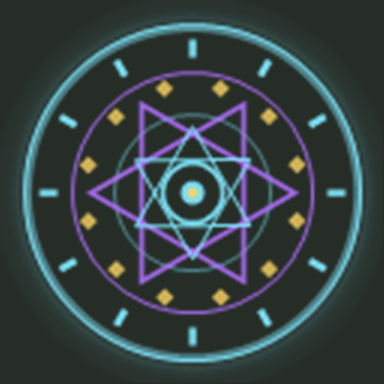
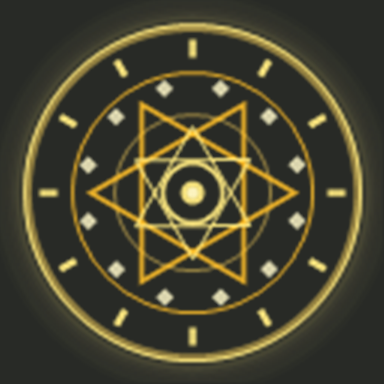
feat(雷球第二轮): 粒子改成球边缘一圈、爆炸改中心爆散、魔法阵纯黄并放大 4 倍
作者：「粒子特效应该是在球的边缘一圈，量很大；球刚触地就直接爆炸就行；魔法阵对于雷法来说
纯黄色就行、大小放大 4 倍；球的边缘多增加一点；爆炸特效还是有点烂，不如当他爆炸的时候
从中心散开一大堆粒子好了」。

- 边缘环：travel_particles 改用 shape=CIRCLE + extent（环半径，格）
  t4 extent 1.6（球半径 1.6 格）/ t5 extent 14.0（球 28 格 -> 半径 14）
  批次与数量：t4 黄150+紫150+弧40；t5 黄220+紫220+黑20+弧60（紫黄五五开、黑约 9%）
- 爆炸：按作者意见去掉 CIRCLE 环 / PILLAR / 尘土，只保留"从中心 SPHERE 爆散一大堆"
  t4 命中 700 + 范围 1000，t5 命中 970 + 范围 1520，速度 2~7，外加 flash 闪光
- 魔法阵：贴图改纯黄（只用一个色相；tools/gen_magic_circle.ps1 重写为纯 ASCII，
  上一版我往里塞了中文注释，PS 5.1 按 ANSI 读成乱码把脚本搞挂了一次）
  半径放大 4 倍：t4 3.2->12.8 格、t5 5.0->20 格；时长 170 / 260 tick
- t5 只留一颗球：extra_launch_count 8->0（顺带避免 9 颗球各喷 200+ 粒子）
- 触地即爆：引擎无 pierce/bounce，撞地形就触发 impact/area_impact，本来就是刚触地就炸

⚠ extent 的单位没实测（包里 0 个 CIRCLE 用例）：若环偏小/偏大，把 extent x16 或 /16
⚠ 装机时游戏正开着 -> 本次**没有装机**（避免又出现"覆盖半个 jar 导致紫黑"），
   构建产物在 build\libs\tnc-1.0.0.jar，退游戏后再装

Changed region(s): [[0.0312, 0.0312, 0.9688, 0.9688], [0.4688, 0.4688, 0.5312, 0.5312]]

diff --git a/src/main/java/com/tnc/tnc/magic/TnSpellMechanics.java b/src/main/java/com/tnc/tnc/magic/TnSpellMechanics.java
@@ -233,9 +233,9 @@ public final class TnSpellMechanics {
         // 传说级 / 神级雷球：脚下留下魔法阵 ✓（作者 2026-09-22 指定）
         // tier 4 = 传说级、tier 5 = 神级（见 Element.tierName）
         if (path.equals("explosive_thunder_orb")) {
-            spawnMagicCircle(player, 3.2D, 140);
+            spawnMagicCircle(player, 12.8D, 170);
         } else if (path.equals("cataclysm_thunder_orb")) {
-            spawnMagicCircle(player, 5.0D, 220);
+            spawnMagicCircle(player, 20.0D, 260);
         }
     }
 

diff --git a/docs/法术专题_交接.md b/docs/法术专题_交接.md
@@ -148,6 +148,8 @@ SELF 型法术在引擎里**没有任何模型/投射物** ✗，所以表现全
 | 爆炸粒子加强 | 全部**向外速度**大幅提高（命中 1.5~4.0、范围 2.0~5.0、CIRCLE 环 2.5~6.0）＋ 新增 `minecraft:large_smoke` 尘土环（SPHERE/CIRCLE/PILLAR）✓；击退 knockback t4 1.2→**2.0**、t5 1.8→**3.0**；范围半径 t4 12→**14**、t5 16→**20** ✓ |
 | t5 模型/尺寸/速度 | `model_id` → **`tnc:projectile/lightingball`**（作者指定）＋ `scale 75`（0.375×75 ≈ **28 格直径** ✗）＋ `velocity 0.25→0.075`（**慢 70%** ✓）。⚠ 28 格比一个区块还大 —— 按"体积 ×100"（∛100=4.64，以原来那颗 6.11 格的球为基准）算出来的；嫌过头就把 75 改成 20（7.5 格）/ 32（12 格）✓ |
 | 球上粒子再加量 | t4 拖尾 110→**170**（紫 70/黄 70/弧 30）；t5 拖尾 136→**214**（紫 80/黄 80/黑 14/弧 40）—— 紫黄仍五五开 ✓ 黑仍≈9% ✓ |
+| **第二轮（同一天，作者指定）** | ① **粒子改成"球的边缘一圈、量很大"** ✓：用 `shape: CIRCLE` ＋ **`extent`（环半径，单位格）** —— t4 球半径 1.6 格 → `extent 1.6`、t5 球半径 14 格 → `extent 14.0`；每档 3~4 个环批次（t4 黄150＋紫150＋弧40；t5 黄220＋紫220＋黑20＋弧60）✓<br>② **爆炸改成"从中心散开一大堆粒子"** ✗ 之前那套环/柱/尘土被作者否掉了：现在只有 `SPHERE`（t4 命中 700＋范围 1000；t5 命中 970＋范围 1520，速度 2~7）＋ `flash` ✓<br>③ **魔法阵改纯黄 ＋ 放大 4 倍**：贴图重画成纯黄（`tools/gen_magic_circle.ps1`，只用一个色相 ✓）；半径 t4 3.2→**12.8 格**、t5 5.0→**20 格**，时长 170/260 tick ✓<br>④ **t5 只留一颗球**：`extra_launch_count` 8→**0** ✓（"超级无敌大雷球"是一颗；顺带避免 9 颗球各喷 200+ 粒子的卡顿 ✗）<br>⑤ **触地即爆**：引擎没有 pierce/bounce ✓ 撞到地形就触发 impact/area_impact，本来就是"刚触地就炸" ✓ |
+| ⚠ `extent` 未实测 | 这是"环半径"字段（`ParticleBatch.extent` ＋ `EXTENT_TRESHOLD` ✓），但**我不知道它的单位是不是"格"** ✗（包里 0 个 CIRCLE 用例可参照）。若游戏里环明显偏小/偏大，把 `extent` ×16 或 ÷16 试试 ✓ |
 | ⚠ 未验证的路径 | **引擎的 `SPAWN` 冲击动作在整合包里 0 个用例** ✗（我把 pack 的 resources 全搜过）—— 若它静默不生成冲击波实体，粒子层面的"向外爆开"仍然在 ✓；届时我改成 Java 侧直接生成（机制层已经知道"哪次施法是大招"✓，只差"何时命中"这个信号 ✗）|
 
 
